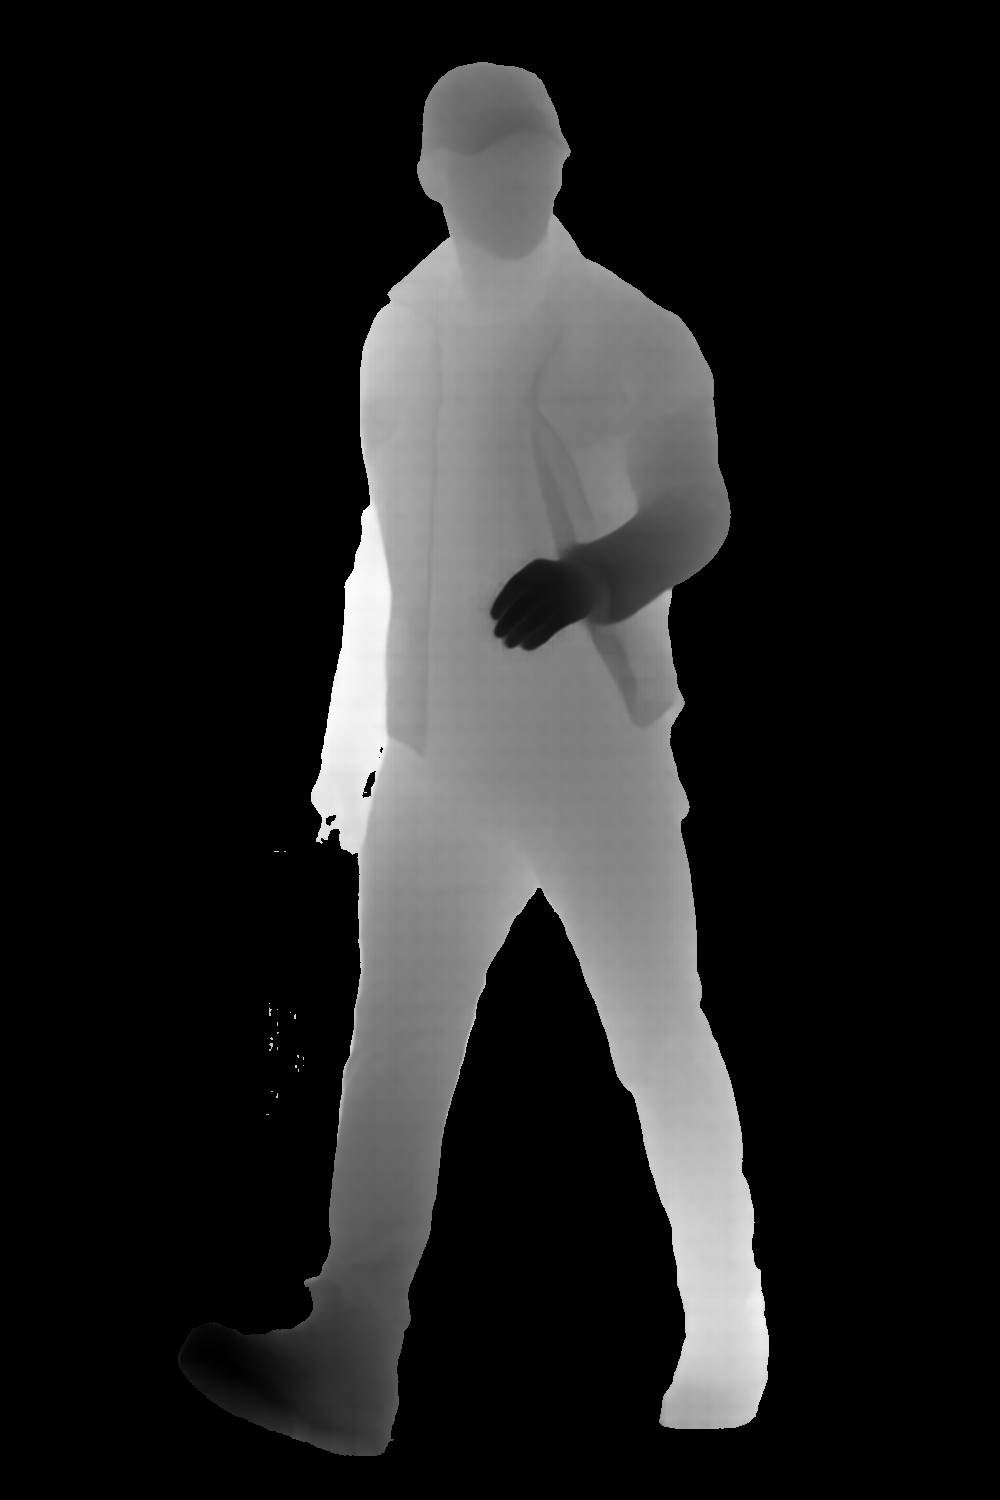
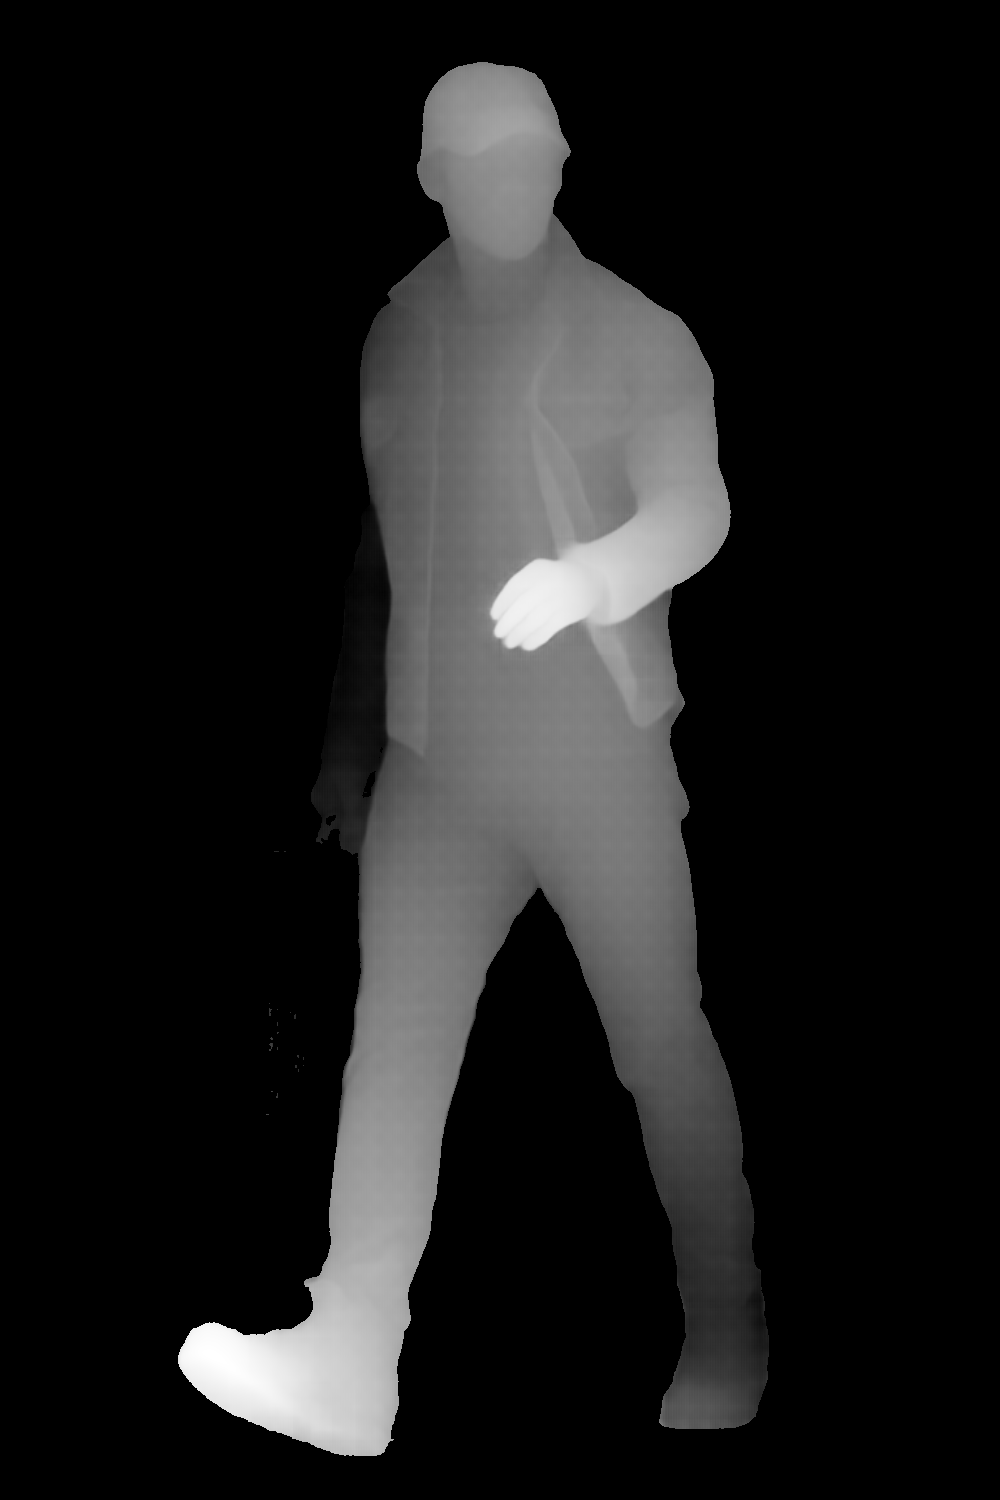
Invert depth map visualization

Changed region(s): [[0.155, 0.0307, 0.775, 0.9813], [0.682, 0.2147, 0.713, 0.2453]]

diff --git a/sapiens-node/index.js b/sapiens-node/index.js
@@ -67,7 +67,7 @@ let maxAbsNormal = -Infinity;
 for (let i = 0; i < depth_map_data.length; ++i) {
   if (segmentation.data[i] === 0) {
     // Background
-    depth_map_data[i] = -Infinity;
+    depth_map_data[i] = Infinity;
 
     for (let j = 0; j < 3; ++j) {
       normal_map_data[j * stride + i] = -Infinity;
@@ -88,7 +88,8 @@ for (let i = 0; i < depth_map_data.length; ++i) {
 // Normalize the depth map to [0, 1]
 const depth_tensor = depth_map
   .sub_(minDepth)
-  .div_(maxDepth - minDepth)
+  .div_(-(maxDepth - minDepth)) // Flip for visualization purposes
+  .add_(1)
   .clamp_(0, 1)
   .mul_(255)
   .round_()
